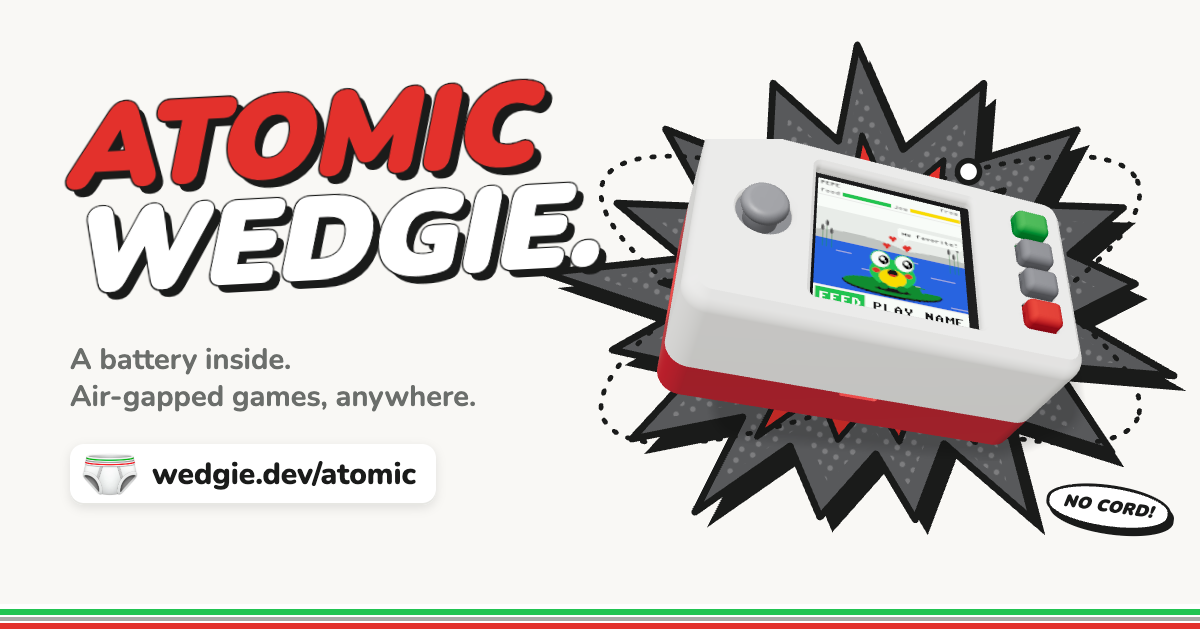
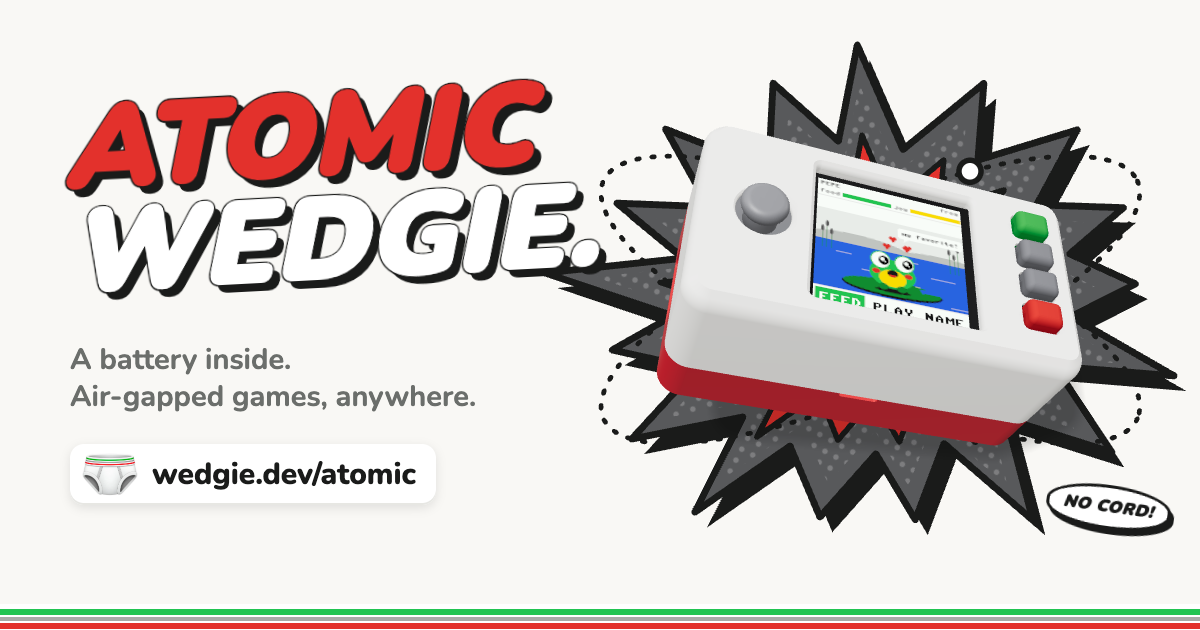
The atomic wedgie's top left corner isn't cut off (Austin, 11-20). Turned to show its red base, the corner swung past the top of the 3D frame. A turned wedgie gets a frame 1.3x as tall, the wedgie the same size. On /atomic, the front page and the link preview (og-atomic.png, v=3).

diff --git a/vite.config.ts b/vite.config.ts
@@ -86,7 +86,7 @@ const CARDS: Record<string, { url: string; title: string; desc: string; img: str
     img: "https://wedgie.dev/img/og-claim.png?v=1", alt: "Clawd, the red diamond in a tuxedo, holding up a wedgie with a pixel heart on its screen, next to the words Free wedgie." },
   atomic: { url: "https://wedgie.dev/atomic", title: "Atomic wedgie.",
     desc: "A wedgie with a battery inside. Air-gapped games, anywhere. Plug it in to sign.",
-    img: "https://wedgie.dev/img/og-atomic.png?v=2", alt: "A wedgie on a red base in front of a dark grey comic burst, next to the words Atomic wedgie." },
+    img: "https://wedgie.dev/img/og-atomic.png?v=3", alt: "A wedgie on a red base in front of a dark grey comic burst, next to the words Atomic wedgie." },
 };
 function cards(): Plugin {
   return {

diff --git a/src/ui/wedgie3d.ts b/src/ui/wedgie3d.ts
@@ -194,7 +194,10 @@ export async function mountWedgie3D(el: HTMLElement, opts: Wedgie3DOptions = {})
   // ---- sizing, pointer lean, render loop --------------------------------------------------------
   let W = 0, H = 0;
   const resize = () => {
-    W = el.clientWidth; H = Math.round(W * 0.62);
+    // Turned to show its side, its corners swing past the usual frame: a taller frame, the wedgie the same size.
+    const tall = opts.pose ? 1.3 : 1;
+    W = el.clientWidth; H = Math.round(W * 0.62 * tall);
+    camera.fov = THREE.MathUtils.radToDeg(2 * Math.atan(Math.tan(THREE.MathUtils.degToRad(11)) * tall));
     renderer.setSize(W, H, false);
     cv.style.width = W + "px"; cv.style.height = H + "px";
     camera.aspect = W / H; camera.updateProjectionMatrix();
